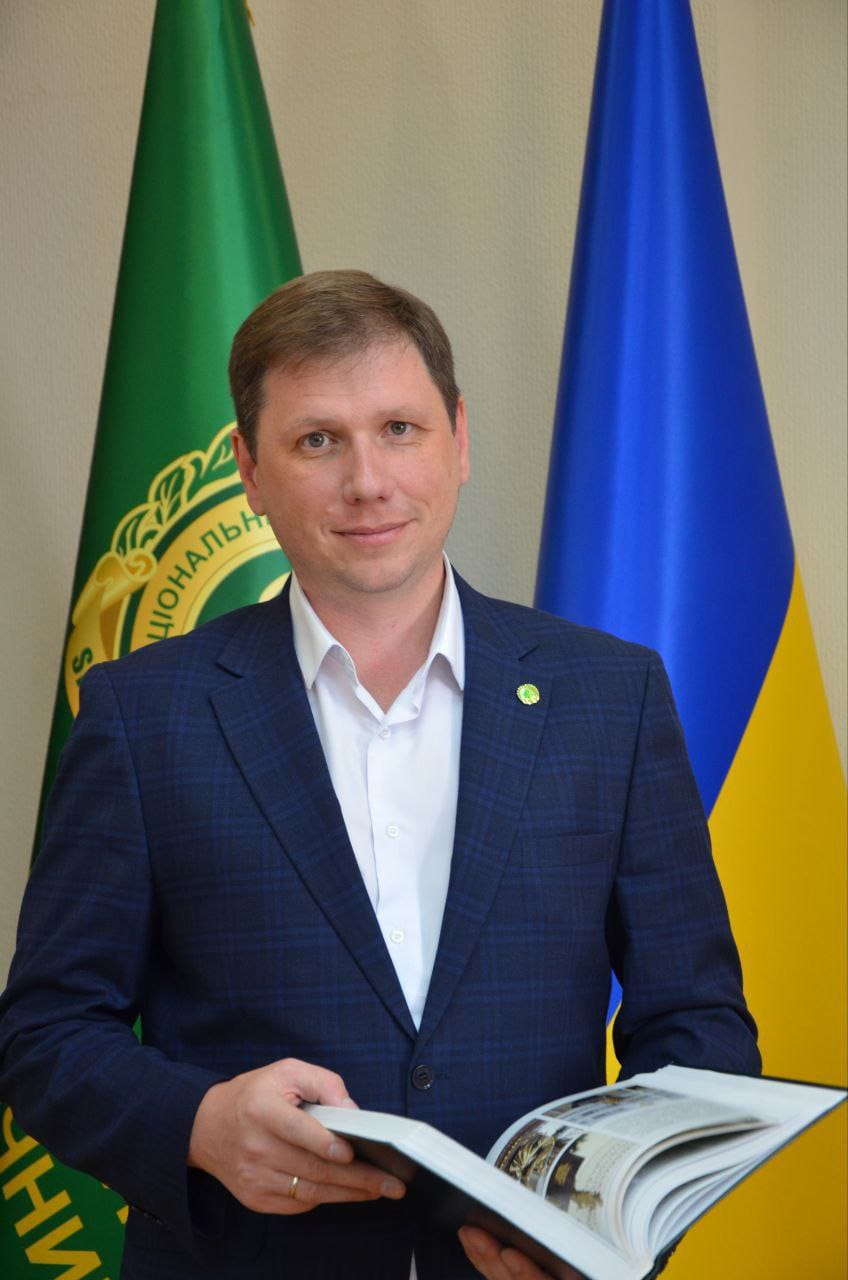
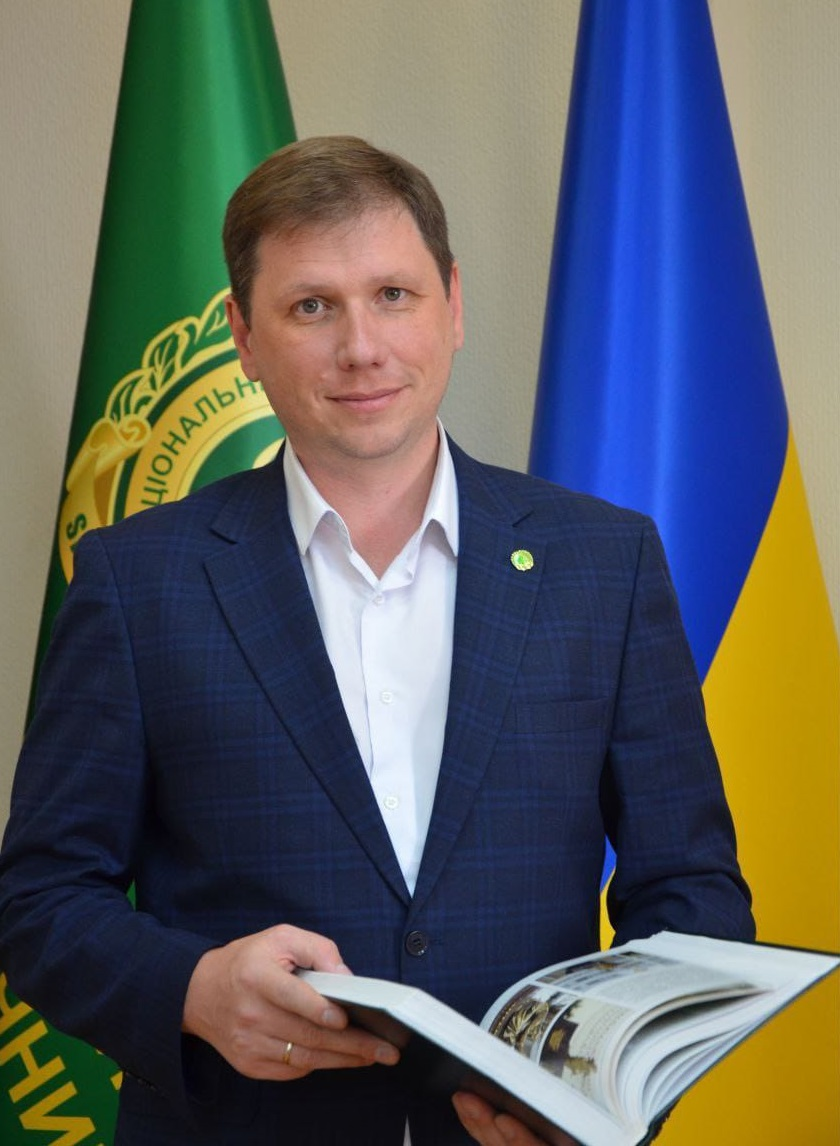
Update Oleksandr Kukhtenko photo (cropped version)

diff --git a/components/ImageItem.tsx b/components/ImageItem.tsx
@@ -13,8 +13,8 @@ interface ImageItemProps {
 export const ImageItem: React.FC<ImageItemProps> = ({
   url,
   className = "",
-  width = 350,
-  height = 450,
+  width = 300,
+  height = 400,
 }) => {
   const [isLoading, setIsLoading] = useState(true);
 
